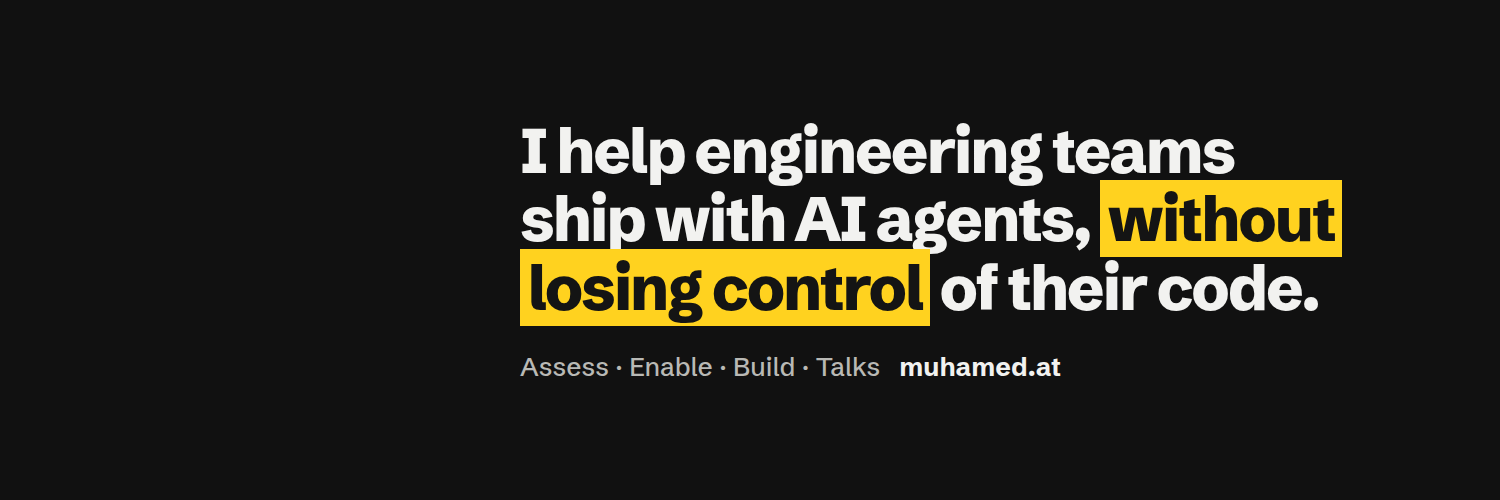
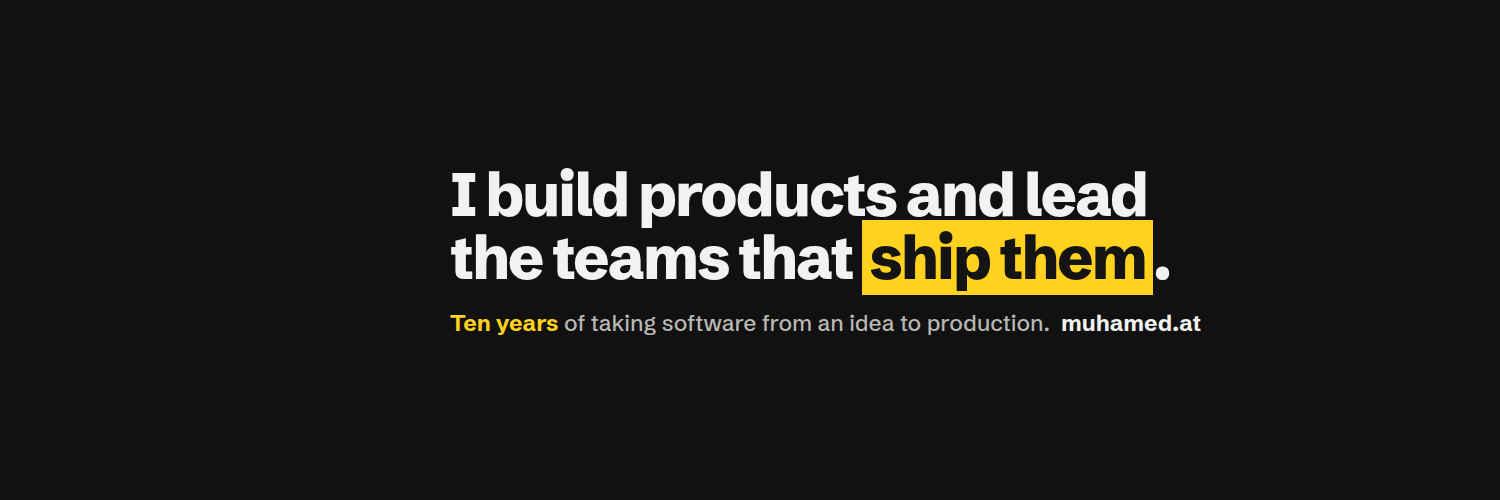
site: a new LinkedIn and X header, one plain line about ownership (#32)
* site: rework the LinkedIn and X headers for hiring managers and clients alike (light and dark drafts)

Implements ADR professional-homepage-with-brain-and-writing.

* site: one dark LinkedIn and X header, without client names

Implements ADR professional-homepage-with-brain-and-writing.

* site: the header says one thing, in plain words: products, teams, shipping

Implements ADR professional-homepage-with-brain-and-writing.

* site: set Ten years in yellow on the header

Implements ADR professional-homepage-with-brain-and-writing.

---------

Changed region(s): [[0.276, 0.24, 0.92, 0.66], [0.3373, 0.72, 0.7053, 0.75]]

diff --git a/.github/scripts/render-social-images.js b/.github/scripts/render-social-images.js
@@ -70,22 +70,24 @@ function share(w, h) {
   </div>`;
 }
 
-// Profile headers. LinkedIn and X both put the avatar over the bottom-left,
-// so the copy sits in the right two thirds.
+// Profile headers: one dark design for LinkedIn and X. One idea, in the
+// owner's words (2026-09-29): ownership, not a list of roles or clients.
+// Both networks put the avatar over the bottom-left and crop the edges on
+// phones, so the copy sits right of safeLeft and away from top and bottom.
 function header(w, h, safeLeft) {
-  const u = h / 400;
-  return `<div class="stage" style="--w:${w}px;--h:${h}px;background:var(--dark);color:var(--on-dark);display:flex;align-items:center;padding:0 ${72 * u}px 0 ${safeLeft}px">
+  const u = w / 1584;
+  return `<div class="stage" style="--w:${w}px;--h:${h}px;background:var(--dark);color:var(--on-dark);display:flex;align-items:center;padding:0 ${64 * u}px 0 ${safeLeft}px">
     <div>
-      <h1 style="font-size:${50 * u}px;line-height:1.1">I help engineering teams ship with AI agents, <span class="hl-dark">without losing control</span> of their code.</h1>
-      <p style="margin-top:${22 * u}px;font-size:${21 * u}px;color:var(--on-dark-2);font-weight:500">Assess · Enable · Build · Talks &nbsp;&nbsp;<b style="color:var(--on-dark)">muhamed.at</b></p>
+      <h1 style="font-size:${64 * u}px;line-height:1.04">I build products and lead<br>the teams that <span class="hl-dark">ship them</span>.</h1>
+      <p style="margin-top:${22 * u}px;font-size:${24 * u}px;font-weight:500;color:var(--on-dark-2)"><b style="color:var(--yellow)">Ten years</b> of taking software from an idea to production. &nbsp;<b style="color:var(--on-dark)">muhamed.at</b></p>
     </div>
   </div>`;
 }
 
 const jobs = [
   ['share.png', 1200, 630, share(1200, 630)],
-  ['linkedin-header.png', 1584, 396, header(1584, 396, 560)],
-  ['x-header.png', 1500, 500, header(1500, 500, 520)],
+  ['linkedin-header.png', 1584, 396, header(1584, 396, 470)],
+  ['x-header.png', 1500, 500, header(1500, 500, 450)],
   ...services.flatMap((s) => [
     [`service-${s.slug}-linkedin.png`, 1200, 627, servicePost(s, 1200, 627)],
     [`service-${s.slug}-x.png`, 1600, 900, servicePost(s, 1600, 900)],

diff --git a/log/log.md b/log/log.md
@@ -58,3 +58,5 @@
 - 2026-09-29T16:00:00Z - on human request, About's description, intro and Specialties are rewritten from the presence of record in klosaer/hireable, and the summary on the CV and About opens with 10+ years in the industry; PDF re-rendered, still two pages
 - 2026-09-29T17:00:00Z - on human request, the site icon is the owner's photo (favicon.ico, 32 and 512 PNGs, a 180 apple-touch icon), links shared from the site preview with images/social/share.png as a large Twitter card, and LinkedIn and X headers plus one post image per service (Assess, Enable, Build, Talks) sit under images/social/, rendered in the site's design system with impeccable's craft floor
 - 2026-09-29T17:30:00Z - on human request, About's tech stack renders from the homepage's stack in _data/home.yml instead of its own outdated list; the share image becomes every page's default image, so jekyll-seo-tag emits the large Twitter card (the fallback in meta.html only ever produced a small one)
+- 2026-09-29T18:00:00Z - on human request, the LinkedIn and X headers are reworked into one dark design for hiring managers and clients alike (title, 10+ years, AI features that hold up in production, leading teams, what I build, RubyConf Austria, muhamed.at); no client names on them
+- 2026-09-29T18:30:00Z - on human request, the LinkedIn and X header is rethought around one line in the owner's words: I build products and lead the teams that ship them; ten years of taking software from an idea to production ("Ten years" in yellow); no roles, company names or AI terms
